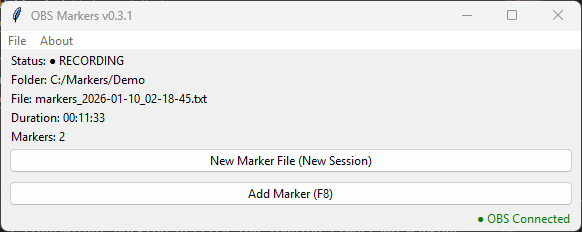
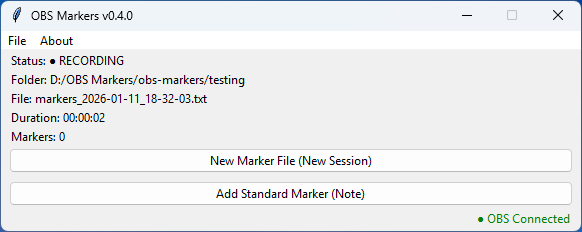
docs: update README.md

diff --git a/README.md b/README.md
@@ -1,35 +1,16 @@
-# OBS Markers
+# OBS Markers 
 
 ![GitHub Release](https://img.shields.io/github/v/release/slothmock/obs-markers?include_prereleases)
 ![Python](https://img.shields.io/badge/python-3.11+-blue)
 ![License](https://img.shields.io/badge/license-MIT-green)
 
-<table>
-  <tr>
-    <td align="center" colspan="2">
-      <img src="docs/gui-main.png" width="100%">
-    </td>
-  </tr>
-  <tr>
-    <td align="center" width="50%">
-      <strong>OBS WebSocket</strong><br>
-      <img src="docs/gui-settings-obs.png" width="300">
-    </td>
-    <td align="center" width="50%">
-      <strong>Hotkeys</strong><br>
-      <img src="docs/gui-settings-hotkeys.png" width="300">
-    </td>
-  </tr>
-</table>
+> ⚠ Pre-alpha software  
+> The app is stable for daily use but the data format and features may still change before v1.0. Back up important marker files if you rely on them for critical workflows.  
 
-OBS Markers is a lightweight desktop utility for logging timestamp markers while recording with [OBS Studio](https://obsproject.com/).
-
+OBS Markers is a lightweight desktop utility for logging timestamp markers while recording with [OBS Studio](https://obsproject.com/).  
 It automatically detects when OBS starts and stops recording, tracks the session duration, and writes timestamped markers to a text file via configurable hotkeys - making it easy to flag key moments while you record.
 
-> ⚠ Pre-alpha software  
-> The app is stable for daily use but the data format and features may still change before v1.0. Back up important marker files if you rely on them for critical workflows.
 
----
 
 ## Highlights
 
@@ -37,7 +18,7 @@ It automatically detects when OBS starts and stops recording, tracks the session
 - One marker file per recording session
 - Instant timestamp markers via hotkey or in-app button
 - Customizable hotkeys via the Settings panel
-- Persistent configuration stored in OS-appropriate locations
+- Persistent configuration stored in AppData (Windows)
 - Clear GUI showing:
   - OBS connection status
   - Recording status
@@ -47,7 +28,33 @@ It automatically detects when OBS starts and stops recording, tracks the session
 - Graceful handling when OBS is closed, unavailable, or restarted
 - Standalone Windows `.exe` builds available
 
----
+
+
+
+<table align="center" cellspacing="16">
+  <tr>
+    <td align="center" colspan="2">
+      <img src="docs/gui-main.png" width="80%" alt="Main GUI">
+      <div><strong>Main Application Window</strong></div>
+    </td>
+  </tr>
+  <tr>
+    <td align="center" width="50%">
+      <img src="docs/gui-settings-obs.png" width="80%" alt="OBS WebSocket Settings">
+      <div><strong>OBS WebSocket Settings Panel</strong></div>
+    </td>
+    <td align="center" width="50%">
+      <img src="docs/gui-settings-hotkeys.png" width="80%" alt="Hotkey Settings">
+      <div><strong>Hotkey Settings Panel</strong></div>
+    </td>
+  </tr>
+  <tr>
+    <td align="center" colspan="2">
+      <img src="docs/gui-settings-hotkey-change.png" width="40%" alt="Hotkey Change Dialog">
+      <div><strong>Modify Hotkey Dialog</strong></div>
+    </td>
+  </tr>
+</table>
 
 ## Quickstart (2 minutes)
 
@@ -60,7 +67,6 @@ It automatically detects when OBS starts and stops recording, tracks the session
 5. Start recording in OBS (UI or hotkey). OBS Markers will detect the session and start a new marker file automatically.
 6. Press the Add Marker hotkey (default `F8`) to append a timestamp, or use the GUI button.
 
----
 
 ## Installation
 
@@ -110,13 +116,16 @@ Notes:
 ### Hotkeys
 Hotkeys are configurable under File → Settings → Hotkeys.
 
-| Action     | Default |
-| ---------- | ------- |
-| New File   | `F12`   |
-| Add Marker | `F8`    |
+| Action       | Default |
+| ------------ | ------- |
+| New File     | F12     |
+| Add Marker   | F8      |
+| Custom 1     | F9      |
+| Custom 2     | F10     |
+| Custom 3     | F11     |
 
-- Hotkeys are global by default (they work even when OBS or other windows are focused).
-- On macOS you may need to grant Accessibility permissions for global hotkeys to work.
+
+- Hotkeys are global (they work even when OBS or other windows are focused).
 - Changes to hotkeys apply immediately - no restart required.
 
 ### Marker Files
@@ -132,14 +141,15 @@ Hotkeys are configurable under File → Settings → Hotkeys.
 Example marker file:
 ```txt
 === SESSION START 2025-12-29 16:29:09 ===
-00:00:08
-00:00:12
-=== SESSION END | Duration: 00:00:16 ===
+00:00:08 Note
+00:00:12 Funny moment
+00:00:20 Custom 2
+=== SESSION END | Duration: 00:00:30 ===
 ```
 
 Marker semantics:
 - Session start/end markers are written automatically.
-- Manual markers append as HH:MM:SS elapsed time from session start.
+- Manual markers append as HH:MM:SS elapsed time from session start + the respective label.
 - If OBS restarts mid-session the file will contain the current session's markers; a new recording after restart will create a new file.
 
 ---
@@ -160,14 +170,23 @@ Example config.json:
   "obs": {
     "host": "localhost",
     "port": 4455,
-    "password": null
-  },
-  "markers": {
-    "last_folder": "C:/Users/<user>/Videos/Markers"
+    "password": "supersecretpass"
   },
   "hotkeys": {
-    "new_file": "F12",
-    "add_marker": "F8"
+    "note": "F8",
+    "custom_1": "F9",
+    "custom_2": "F10",
+    "custom_3": "F11",
+    "new_file": "F12"
+  },
+  "marker_types": {
+    "note": "Note",
+    "custom_1": "Custom 1",
+    "custom_2": "Custom 2",
+    "custom_3": "Custom 3"
+  },
+  "markers": {
+    "last_folder": "D:/OBS Markers/obs-markers/testing"
   }
 }
 ```
@@ -215,11 +234,9 @@ If you still have trouble, please open an issue: [https://github.com/slothmock/o
 ## Roadmap
 
 Planned and possible future work:
-- Per-marker notes and comments
+- ~~Per-marker notes and comments~~
 - CSV/JSON export of marker lists
 - Official macOS and Linux packaging
-- Improved session metadata and customizable filename templates
-- Optional GitHub Actions CI and test coverage badges
 
 See the [Releases page](https://github.com/slothmock/obs-markers/releases) for changelogs and version history. 
 
